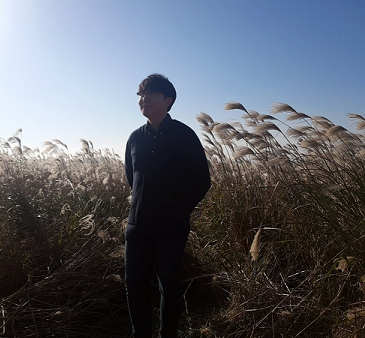
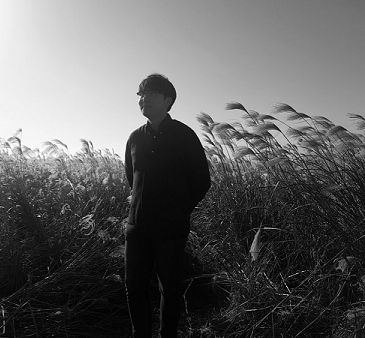
배너이미지 수정

Changed region(s): [[0.1507, 0.0, 1.0, 0.355], [0.6932, 0.7101, 0.7233, 0.7692]]

diff --git a/404.md b/404.md
@@ -2,7 +2,7 @@
 layout: page
 title: Page Not Found
 permalink: /404.html
-banner_image: images/404.jpg
+banner_image: 404.jpg
 ---
 
 Apologies, but the page you requested could not be found. <br />

diff --git a/about.md b/about.md
@@ -2,7 +2,7 @@
 layout: page
 title: About geek2692
 description: About this blog and host geek2692.
-banner_image: images/about_geek2692.png
+banner_image: about_geek2692.png
 ---
 ### geek2692
 
